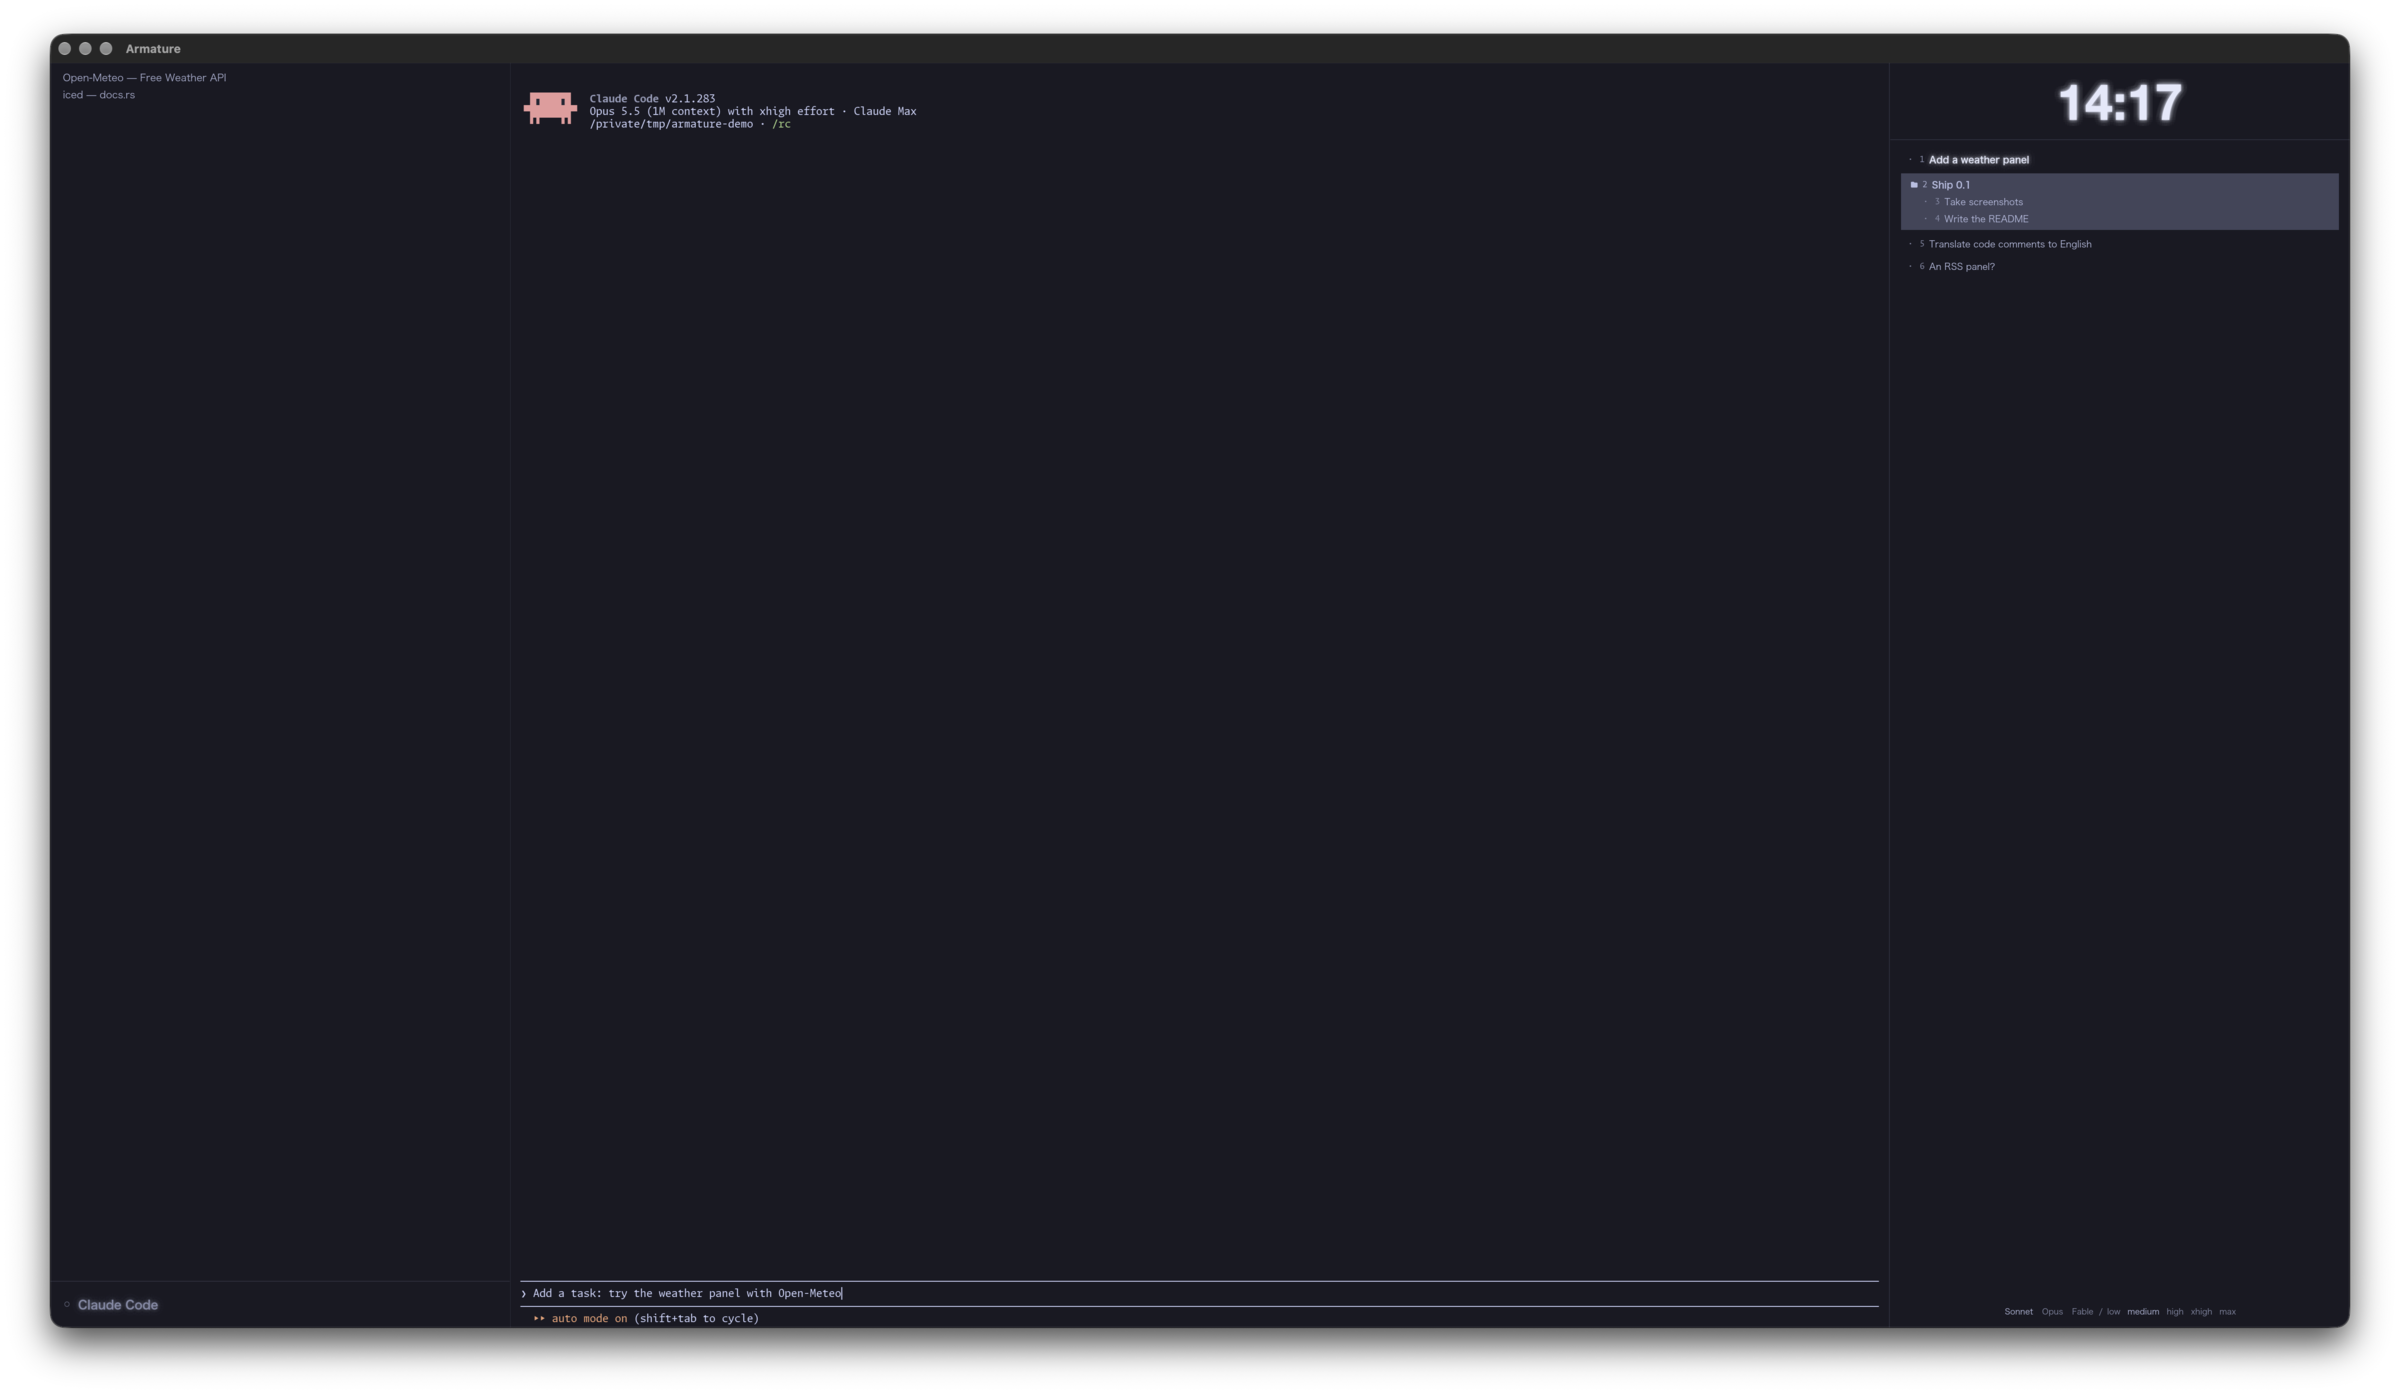
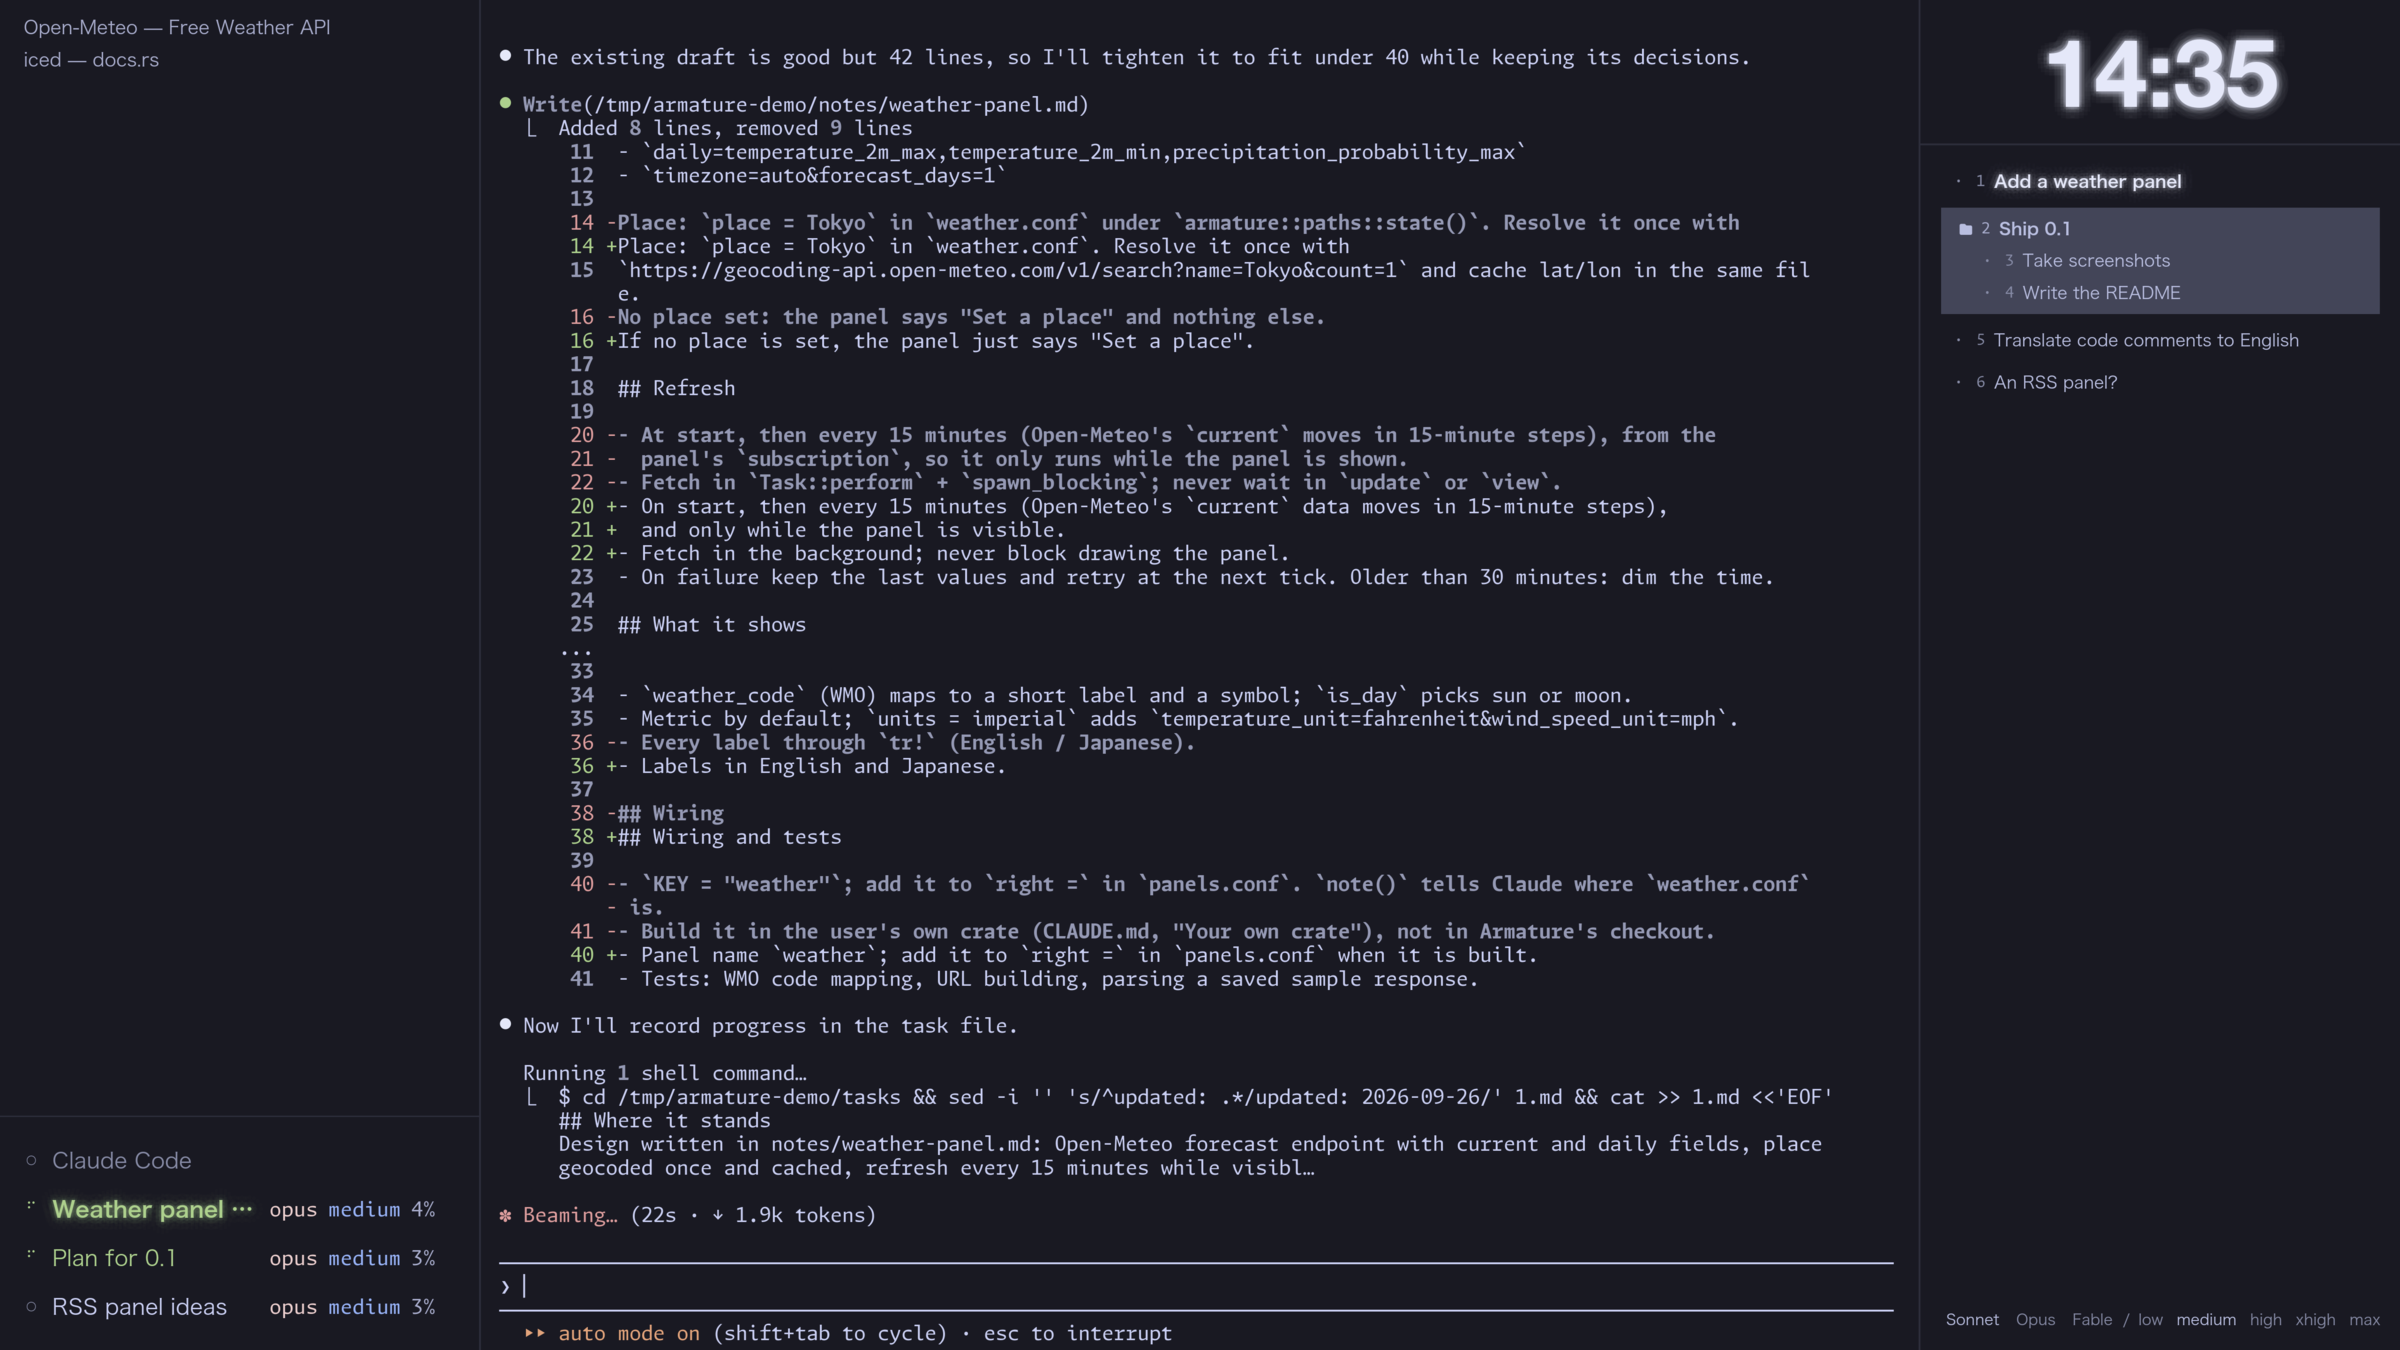
A full-screen screenshot with Claude sessions at work

diff --git a/README.md b/README.md
@@ -6,7 +6,7 @@ for you.
 Free and open source (MIT). Use it as it is, or treat it as a starting point: hand it to your AI
 assistant and have it shape your own Claude Code workspace from here — that is what it is made for.
 
-![Armature: Claude Code in the center, browser tabs on the left, clock and tasks on the right](docs/screenshot.png)
+![Armature in full screen: Claude Code in the center, browser tabs and running Claude sessions on the left, clock and tasks on the right](docs/screenshot.png)
 
 > **0.1** — an early release: expect rough edges and changes.
 
